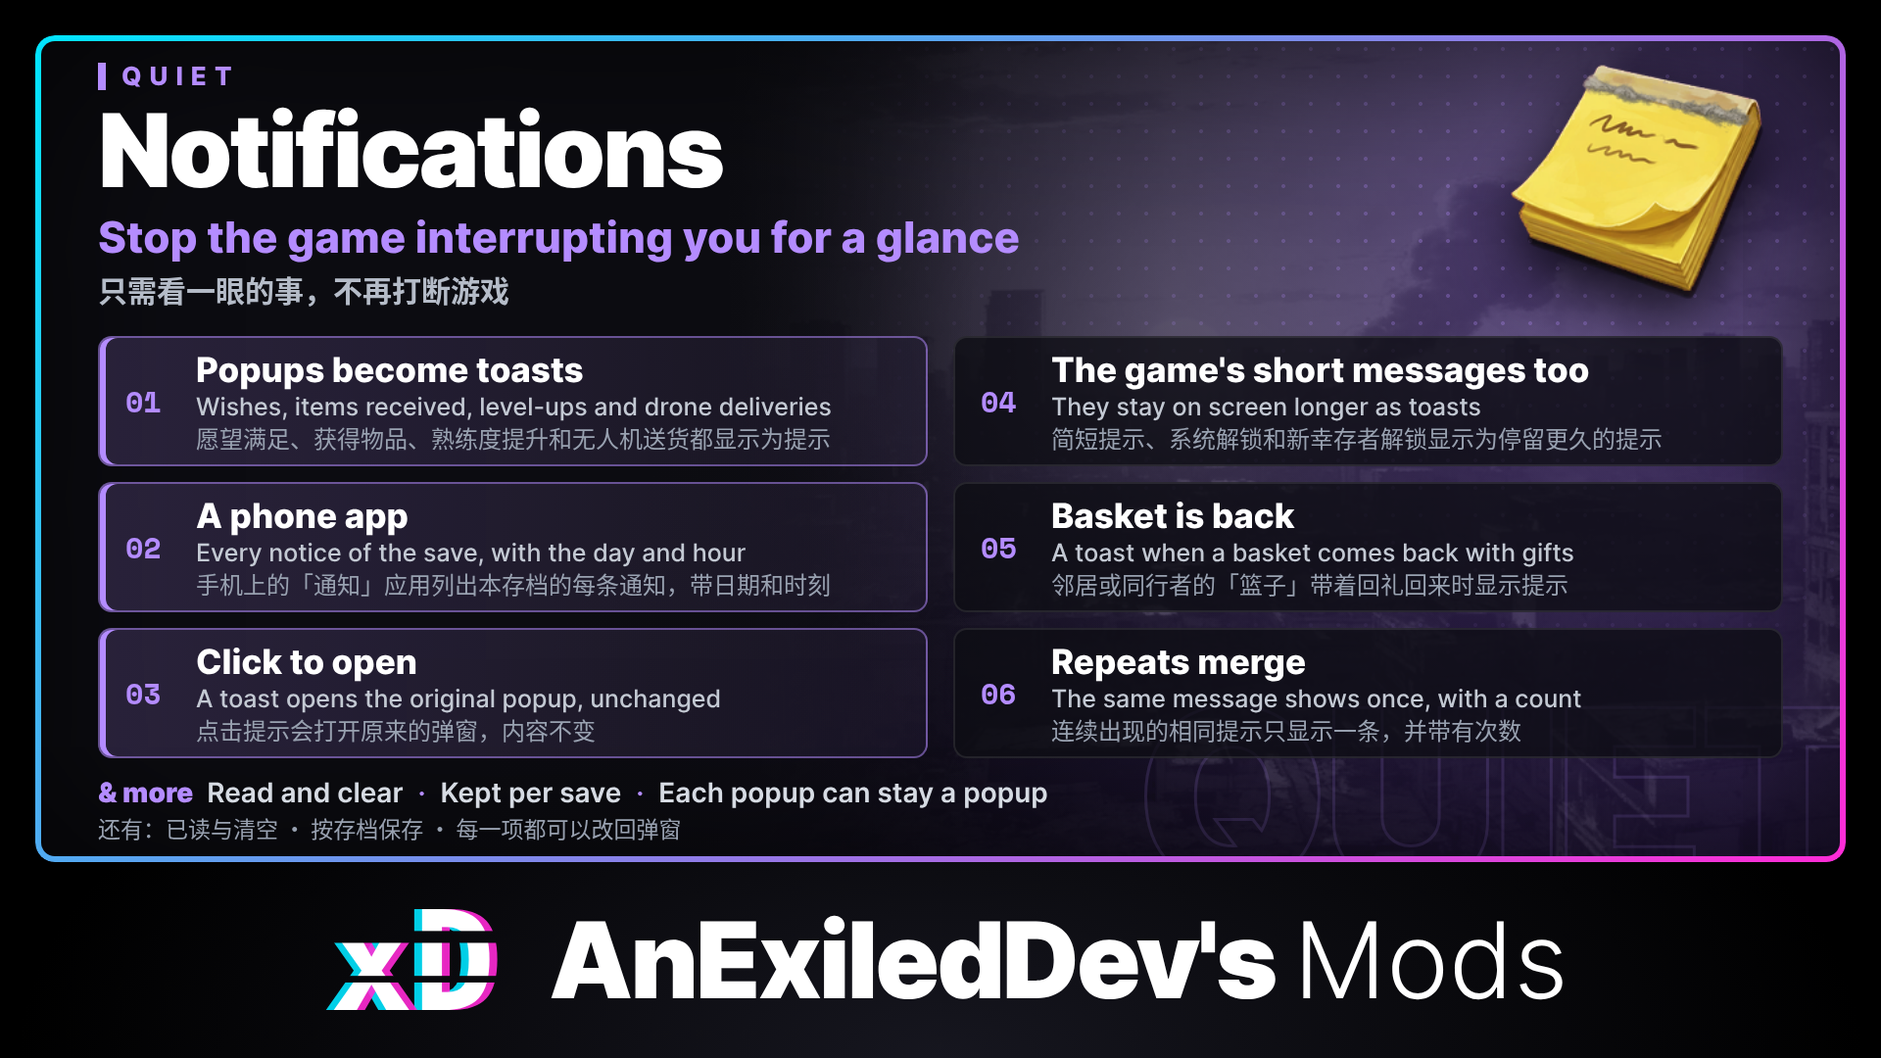
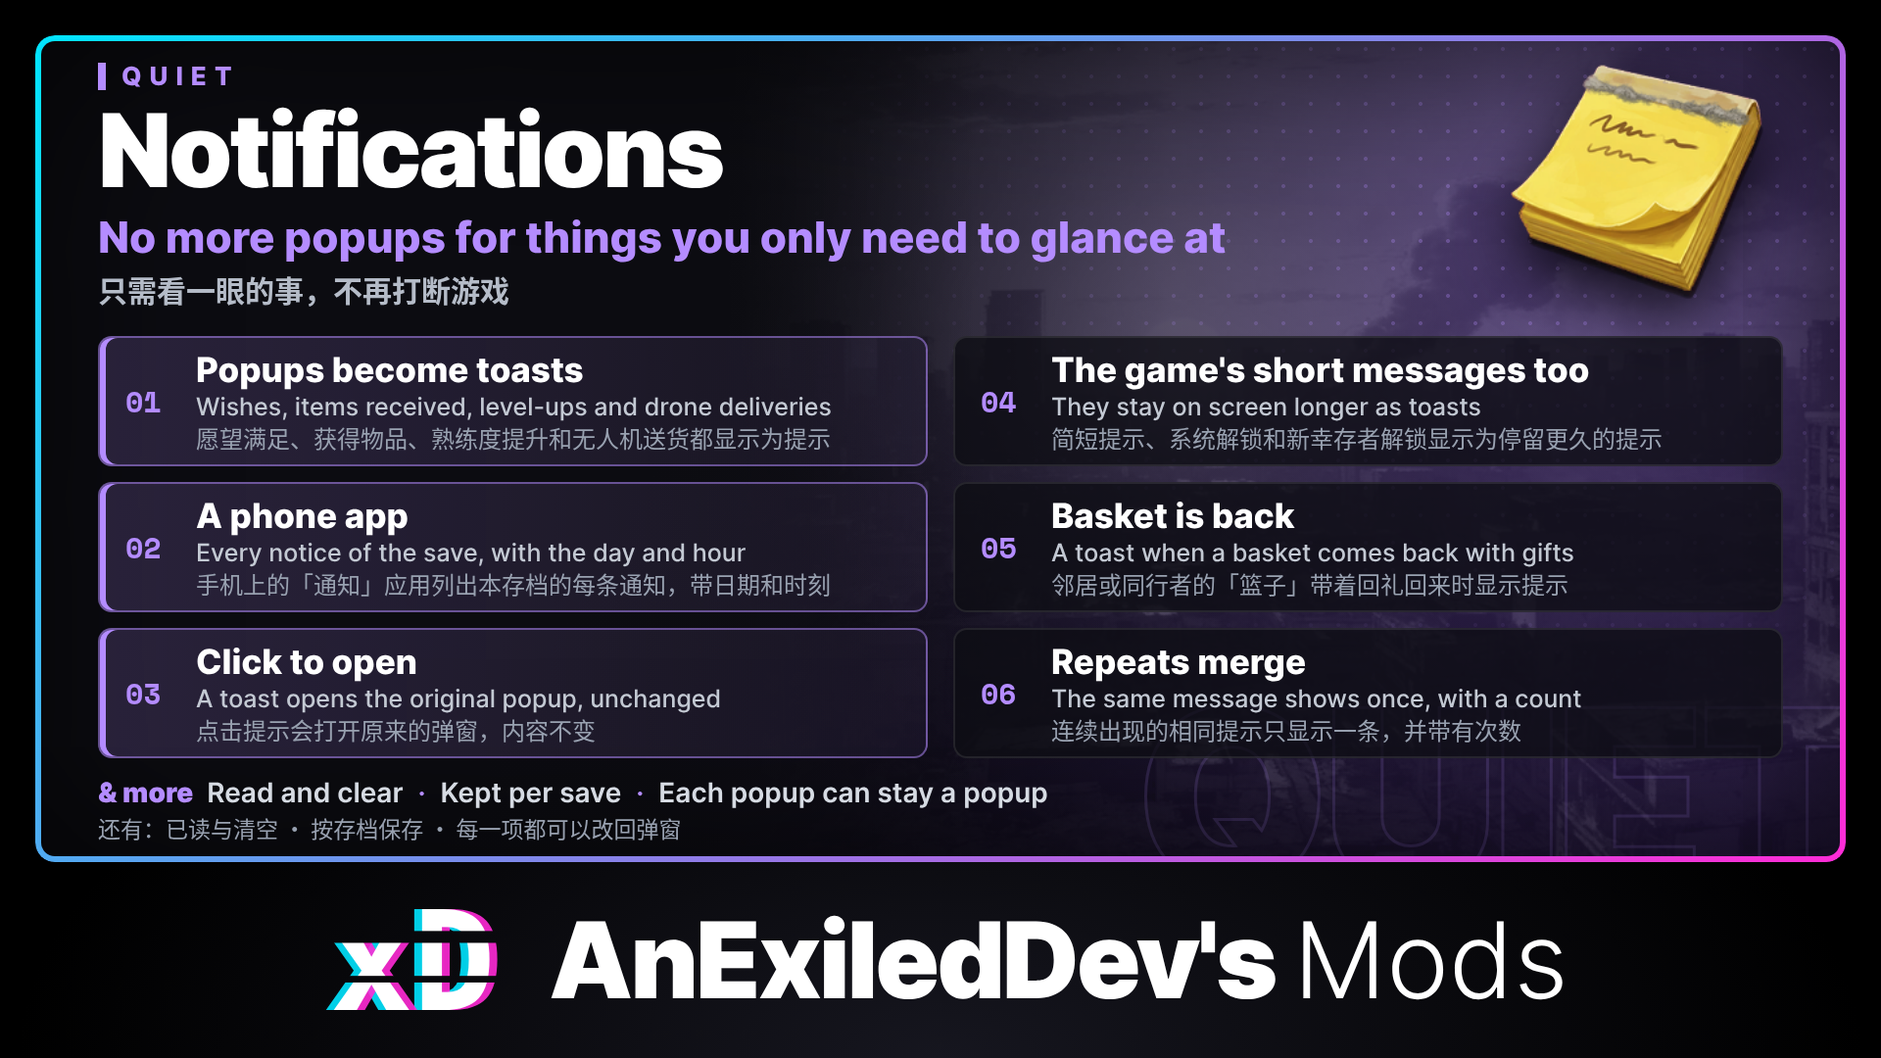
Notifications 0.4.8: clearer wording
Rewrote the settings descriptions, README, Nexus page (both languages), CONFIG.md and changelog in plainer words.
The Nexus page and README now list game version 1.1.20719, and the Nexus page lists the limit on reopening notices from other mods.

Changed region(s): [[0.0312, 0.2139, 0.6562, 0.2444]]

diff --git a/src/Notifications/Plugin.cs b/src/Notifications/Plugin.cs
@@ -16,7 +16,7 @@ namespace Notifications;
 public sealed class Plugin : BasePlugin
 {
     private const string Guid = "com.dev.survivallog.notifications";
-    private const string Version = "0.4.7";
+    private const string Version = "0.4.8";
 
     /// <summary>How long quitting waits for the history to reach the disk.</summary>
     private static readonly System.TimeSpan QuitWait = System.TimeSpan.FromSeconds(2);
@@ -70,17 +70,17 @@ public sealed class Plugin : BasePlugin
             "Show a toast instead of the popup when a wish comes true. Click the toast, or the entry in the phone's Notifications app, to open the popup.\n" +
             "愿望达成时显示提示，不再弹出窗口。点击提示或手机「通知」里的记录可打开原窗口。"),
         Popup("ItemsReceived",
-            "Show a toast instead of the received-items popup (bumper harvests, first-time dishes, rewards). Click it to open the popup. The small pickup pops that fade by themselves stay as they are.\n" +
+            "Show a toast instead of the received-items popup (bumper harvests, first-time dishes, rewards). Click it to open the popup. The small pickup messages that fade on their own don't change.\n" +
             "获得物品时显示提示，不再弹出窗口（丰收、初次烹成、奖励等）。点击提示可打开原窗口。拾取物品时自动消失的小提示保持不变。"),
         Popup("WaveReport",
-            "Show a toast instead of the zombie wave report. Click it to open the report. Off by default: the game's report shows.\n" +
-            "尸潮战报改为提示显示，不再弹出窗口。点击提示可打开战报。默认关闭，显示游戏自带的战报。", isOn: false),
+            "Show a toast instead of the zombie wave report. Click it to open the report. Off by default, so the wave report shows as a popup.\n" +
+            "尸潮战报改为提示显示，不再弹出窗口。点击提示可打开战报。默认关闭，战报仍以弹窗显示。", isOn: false),
         Popup("SkillLevelUp",
             "Show a toast instead of the skill level-up popup. Click it to open the popup.\n" +
             "熟练度提升时显示提示，不再弹出窗口。点击提示可打开原窗口。"),
         Popup("DroneDelivery",
-            "When a drone comes home, show a \"Drone delivery arrived\" toast instead of the unload popup. Click it to open the popup. Cargo that does not fit stays in the drone, as before, and then there is no popup to open.\n" +
-            "无人机返回时显示「无人机送货到了」提示，不再弹出卸货窗口。点击提示可打开原窗口。放不下的货物仍留在无人机里，此时没有窗口可打开。"),
+            "When a drone comes home, show a \"Drone delivery arrived\" toast instead of the unload popup. Click it to open the popup. If some cargo doesn't fit, it stays in the drone as usual, and the toast has no popup to open.\n" +
+            "无人机返回时显示「无人机送货到了」提示，不再弹出卸货窗口。点击提示可打开原窗口。放不下的货物照常留在无人机里，此时提示没有可打开的窗口。"),
         GameToast("PopText",
             "Show the game's short messages (such as not enough stamina) as toasts. Identical messages in a row merge into one toast with a count. All of them go into the phone's Notifications app.\n" +
             "把游戏的简短提示（例如精力不足）改为本模组的提示显示。连续出现的相同提示会合并为一条并显示次数。所有提示都会记入手机「通知」。"),
@@ -91,10 +91,10 @@ public sealed class Plugin : BasePlugin
             "Show new survivor unlocks as toasts, and keep them in the phone's Notifications app.\n" +
             "新幸存者解锁改为提示显示，并记入手机「通知」。"),
         Config.Bind("GameToasts", "KeepGameToastLook", false,
-            "Let the game draw its own short messages and unlocks as before, and only copy them into the phone's Notifications app. Off: they show as toasts, which stay on screen as long as Exiled's Toolkit's Seconds setting says (7 seconds by default).\n" +
-            "游戏的简短提示和解锁仍由游戏自己显示，只把它们记入手机「通知」。关闭时改为提示显示，停留时间由 Exiled's Toolkit 的 Seconds 设置决定（默认 7 秒）。"),
+            "Let the game show its short messages and unlocks as usual, and only copy them into the phone's Notifications app. When this is off, they show as toasts instead, and Exiled's Toolkit's Seconds setting decides how long they stay on screen (7 seconds by default).\n" +
+            "简短提示和解锁照常由游戏显示，只把它们记入手机「通知」。关闭时改为提示显示，停留时间由 Exiled's Toolkit 的 Seconds 设置决定（默认 7 秒）。"),
         Config.Bind("Basket", "BasketBack", true,
-            "Show a \"The basket is back\" toast when the neighbour's or your companion's basket comes back with her return gifts, and keep it in the phone's Notifications app.\n" +
+            "Show a \"The basket is back\" toast when your neighbor's or companion's basket comes back with her return gifts, and keep it in the phone's Notifications app.\n" +
             "邻居或同行者的「篮子」带着回礼回来时显示「篮子回来了」提示，并记入手机「通知」。"),
     };
 

diff --git a/README.md b/README.md
@@ -6,23 +6,23 @@ Survival Log stops play with a popup for many things that only need a glance: a 
 
 ## Features
 
-- **Popups become toasts**: wishes fulfilled, items received, skill level-ups and drone deliveries show a toast instead of stopping play. Each can be switched back to the popup on its own. The zombie wave report stays the game's popup unless you turn on `WaveReport`.
-- **Click to open**: clicking the toast opens the original popup, with the same contents it would have shown.
-- **The game's short messages too**: the game's short messages, system unlocks and new survivor unlocks show as toasts, which are bigger and stay on screen longer than the game's. They can also be left to the game while still being kept on the phone.
-- **Basket is back**: a toast when the neighbour's or your companion's basket comes back with her return gifts. The game only sends a text message for it.
-- **Repeats merge**: the same message sent several times in a row shows one toast with a count (x2, x3, ...) instead of a stack of copies. Only messages that are exactly the same merge.
-- **Phone app**: a Notifications app on the phone's home screen lists every notice of the current save, newest first and grouped by game day, with where it came from, the hour, and how many times it came. Filters show only new notices, popups, messages or other mods. The icon shows how many notices are new, and the home screen shows the newest three.
-- **Open in place**: clicking a notice in the list opens it in place, with any received items and their amounts, or a wish's gains. Open popup closes the phone and opens its popup again, when it had one.
-- **Read and clear**: a notice stays new until you open it. Mark all read clears them all, and Clear list empties the list for this save after asking first.
-- **Kept with your save**: the list is kept per save, up to the newest 500 notices, and comes back when you load that save again.
+- **Popups become toasts**: wishes coming true, items received, skill level-ups and drone deliveries show a toast instead of stopping play. You can switch each one back to a popup. The zombie wave report still shows as a popup unless you turn on `WaveReport`.
+- **Click to open**: click a toast to open the popup it replaced, with everything that popup would have shown.
+- **Short messages and unlocks**: the game's short messages, system unlocks and new survivor unlocks show as toasts, which are bigger and stay on screen longer. You can also let the game show them as usual and still keep a copy on the phone.
+- **Basket return**: you get a toast when your neighbor's or companion's basket comes back with her return gifts. Without the mod, the game only sends a text message.
+- **Repeated messages merge**: when the same message comes several times in a row, you get one toast with a count (x2, x3, ...) instead of a stack of copies. Only messages that match exactly are merged.
+- **Phone app**: a Notifications app on the phone's home screen lists every notice from the current save, newest first and grouped by game day. Each notice shows where it came from, the hour, and how many times it came in. Filters let you show only new notices, popups, messages, or notices from other mods. The app icon shows how many notices are new, and the home screen shows the newest three.
+- **Details in the list**: click a notice in the list to see its details, such as the items you got and how many, or what a wish gave you. If the notice came from a popup, Open popup closes the phone and shows that popup again.
+- **Read and clear**: a notice stays new until you open it. Mark all read marks every notice as read, and Clear list empties the list for this save after asking you first.
+- **Kept with your save**: each save has a separate list that keeps the newest 500 notices, and it comes back when you load that save again.
 
 Popups that ask you to choose something, such as events and the item pickup window with Pick All, are never changed.
 
-Notifications adds nothing to your save and does not edit game files. The list is kept in its own files next to the mod's settings. You can remove the mod at any time.
+Notifications adds nothing to your save and does not edit game files. The lists are kept in separate files next to the mod's settings. You can remove the mod at any time.
 
 ## Requirements
 
-- Survival Log 1.1.20151. Built and tested on this version; a game update can break it until the mod is updated.
+- Survival Log 1.1.20719. A game update can break the mod until it's updated.
 - The [BepInEx Pack for Survival Log](https://www.nexusmods.com/survivallog/mods/12), the BepInEx 6 (IL2CPP) build for the game.
 - **Exiled's Toolkit** 0.19.0 or newer, which draws the toasts and applies changed settings at once. Notifications does not load without it.
 - Optional: [Mod Manager](https://www.nexusmods.com/survivallog/mods/73). With it, you can change every setting in game on its Mods screen and see what each one does, without opening the config file.
@@ -45,22 +45,23 @@ Settings live in `BepInEx\config\com.dev.survivallog.notifications.cfg`, created
 
 The phone app and the mod's own toast text follow the game's language: English or Simplified Chinese.
 
-How long toasts stay on screen, which corner they use, and whether they are drawn at all are Exiled's Toolkit settings. With the Toolkit's toasts turned off, every popup shows as the game draws it and the phone list still keeps a copy of everything.
+How long toasts stay on screen, which corner they use, and whether they show at all are Exiled's Toolkit settings. With the Toolkit's toasts turned off, every popup shows as usual and the phone list still keeps a copy of everything.
 
 ## Known issues and limits
 
-- A notice in the list can open its popup again after a restart only if the popup can be rebuilt from what was saved. A notice from another mod's toast can be opened only in the session it arrived in.
-- When some of a drone's cargo does not fit, it stays in the drone as before, and the toast has no popup to open.
+- After a restart, a notice in the list can open its popup again only if the mod saved enough to rebuild that popup.
+- A notice from another mod can only be opened until you quit the game.
+- When some of a drone's cargo does not fit, that cargo stays in the drone as before, and the toast has no popup to open.
 - The list starts empty for saves played before the mod was installed.
 
 ## Troubleshooting
 
-Check `BepInEx\LogOutput.log` for `===== Notifications 0.4.7 started`. The same lines, and anything that went wrong, are in `BepInEx\notifications.log`, which survives restarts.
+Check `BepInEx\LogOutput.log` for `===== Notifications 0.4.8 started`. The same lines, and anything that went wrong, are in `BepInEx\notifications.log`, which survives restarts.
 
-If a saved list cannot be read, it is moved aside with a `.bad` ending in `BepInEx\config\notifications` and a new list starts, so the old one is never written over.
+If a saved list can't be read, the mod renames it with a `.bad` ending in `BepInEx\config\notifications` and starts a new list, so the old one is never written over.
 
 ## Contact
 
-To reach me directly, message `exiled.dev` on Discord; you can find me in the [official Survival Log Discord](https://discord.gg/MZGg4gQAUe). I'm also on X as [@AnExiledDev](https://x.com/AnExiledDev).
+To reach me directly, message `exiled.dev` on Discord. You can find me in the [official Survival Log Discord](https://discord.gg/MZGg4gQAUe). I'm also on X as [@AnExiledDev](https://x.com/AnExiledDev).
 
 A Survival Log wiki with detailed documentation for all of my mods is coming soon.

diff --git a/CHANGELOG.md b/CHANGELOG.md
@@ -1,5 +1,10 @@
 # Changelog
 
+## 0.4.8
+
+- Clearer wording in the settings.
+- Made for Survival Log 1.1.20719.
+
 ## 0.4.7
 
 - Now uses Exiled's Toolkit for its shared parts, so it needs Exiled's Toolkit 0.19.0 or newer.
@@ -12,12 +17,12 @@
 
 ## 0.4.5
 
-- Less stutter when a toast stands in for a popup and the popup closes.
+- Less stutter when a toast replaces a popup and that popup closes.
 - Made for Survival Log 1.1.20151.
 
 ## 0.4.4
 
-- The phone opens faster with a long list of notices: it shows the newest ones first and adds more as you scroll down.
+- The phone opens faster with a long list of notices. It shows the newest ones first and loads more as you scroll down.
 - Made for Survival Log 1.1.19611.
 
 ## 0.4.3
@@ -30,38 +35,38 @@
 
 ## 0.4.2
 
-- Less stutter while many notices come in: the phone list and the saved history are updated less often. Nothing is lost; the history is still saved when you leave or quit.
+- Less stutter when many notices come in, because the phone list and the saved history update less often. Nothing is lost, and the history is still saved when you leave or quit.
 - Made for Survival Log 1.1.19611.
 
 ## 0.4.1
 
-- The Notifications icon, its unread count and the newest notices are on the phone the moment it opens, instead of showing up a moment later.
+- The Notifications icon, its unread count and the newest notices show up as soon as you open the phone, instead of a moment later.
 - Made for Survival Log 1.1.19611.
 
 ## 0.4.0
 
-- A "The basket is back" toast when the neighbour's or your companion's basket comes back with her return gifts. It is kept in the phone's Notifications app too. Turn it off with `BasketBack`.
+- New: a "The basket is back" toast shows when your neighbor's or companion's basket comes back with her return gifts. It's kept in the phone's Notifications app too. Turn it off with `BasketBack`.
 
 ## 0.3.0
 
 - The phone list is grouped by game day, with a picture for each notice, and filters for new notices, popups, messages and other mods.
-- Clicking a notice opens it in place: received items with their pictures and amounts, a wish's gains, and an Open popup button when it had one.
-- Each notice stays new until you open it. Mark all read clears them all at once, and Clear list (with a check first) empties the list for this save.
+- Click a notice to see its details, such as received items with their pictures and amounts, or what a wish gave you. Notices that came from a popup have an Open popup button.
+- Each notice stays new until you open it. Mark all read marks every notice as read, and Clear list empties the list for this save after asking first.
 - The phone's home screen shows up to three new notices, with See all to open the list.
 - The app icon is orange and shows how many notices are new.
-- Opening a received-items popup again from the list shows its items. Before, it came up empty.
+- Fixed: opening a received-items popup again from the list showed it empty.
 - Toasts use the new Exiled's Toolkit look, with item pictures and a bar for the time left.
 - Needs Exiled's Toolkit 0.7.0 or newer.
 - Made for Survival Log 1.1.19131.
 
 ## 0.2.2
 
-- With `WaveReport` on, the game no longer stays paused when the wave report becomes a toast, and no Escape is needed to carry on.
+- With `WaveReport` on, the game no longer stays paused when the wave report shows as a toast, so you don't need to press Escape to keep playing.
 - After a game update, Mod Manager can tell you if this mod may need an update.
 
 ## 0.2.1
 
-- The zombie wave report shows as the game's popup by default. As a toast it could leave the game paused as if the report were open, needing Escape twice. `WaveReport` turns the toast back on.
+- The zombie wave report shows as a popup again by default. As a toast it could leave the game paused, and you had to press Escape twice. Turn on `WaveReport` to get the toast back.
 
 ## 0.2.0
 
@@ -73,6 +78,6 @@
 ## 0.1.3
 
 - First release.
-- The game's popups that stop play show as toasts instead, small notices in the corner that close on their own.
+- Popups that stop play show as toasts instead, small notices in the corner that close on their own.
 - Every notice is kept in a Notifications app on your phone.
 - Needs Exiled's Toolkit.

diff --git a/CONFIG.md b/CONFIG.md
@@ -2,33 +2,33 @@
 
 Settings live in `BepInEx\config\com.dev.survivallog.notifications.cfg`, created the first time the game starts with the mod. Change them in game on the Mod Manager's Mods screen, where they take effect at once, or edit the file while the game is closed. Delete the file to get the defaults back.
 
-How long toasts stay on screen and where they appear are set in Exiled's Toolkit (`Seconds`, 7 by default). When the Toolkit's `Enabled` is `false`, no toasts are drawn: every popup and message shows as the game draws it, and the phone's Notifications app still keeps a copy.
+How long toasts stay on screen and where they appear are set in Exiled's Toolkit (`Seconds`, 7 by default). When the Toolkit's `Enabled` is `false`, no toasts show: every popup and message shows as usual, and the phone's Notifications app still keeps a copy.
 
 ## Popups
 
 | Setting | Default | What it does |
 | --- | --- | --- |
 | `WishFulfilled` | `true` | Show a toast instead of the popup when a wish comes true. Click the toast, or its entry in the phone's Notifications app, to open the popup. |
-| `ItemsReceived` | `true` | Show a toast instead of the received-items popup (bumper harvests, first-time dishes, rewards). Click it to open the popup. The small pickup pops that fade by themselves stay as they are. The item pickup window with Pick All is never changed. |
-| `WaveReport` | `false` | Show a toast instead of the zombie wave report. Click it to open the report. Off by default: the game's report shows. |
+| `ItemsReceived` | `true` | Show a toast instead of the received-items popup (bumper harvests, first-time dishes, rewards). Click it to open the popup. The small pickup messages that fade on their own don't change. The item pickup window with Pick All is never changed. |
+| `WaveReport` | `false` | Show a toast instead of the zombie wave report. Click it to open the report. Off by default, so the wave report shows as a popup. |
 | `SkillLevelUp` | `true` | Show a toast instead of the skill level-up popup. Click it to open the popup. |
 | `DroneDelivery` | `true` | When a drone comes home, show a "Drone delivery arrived" toast instead of the unload popup. Click it to open the popup. |
 
-Set one to `false` to get that popup back as the game shows it. Popups that are switched off here are not kept in the phone list.
+Set one to `false` to get that popup back. Popups you switch off here are not kept in the phone list.
 
 ## Game toasts
 
 | Setting | Default | What it does |
 | --- | --- | --- |
-| `PopText` | `true` | Show the game's short messages (such as not enough stamina) as toasts. Identical messages in a row merge into one toast with a count. |
+| `PopText` | `true` | Show the game's short messages (such as not enough stamina) as toasts. When the same message comes several times in a row, you get one toast with a count. |
 | `SystemUnlock` | `true` | Show system unlocks as toasts. |
 | `CharacterUnlock` | `true` | Show new survivor unlocks as toasts. |
-| `KeepGameToastLook` | `false` | When `true`, the game draws its short messages and unlocks itself, as before, and they are only copied into the phone list. |
+| `KeepGameToastLook` | `false` | When `true`, the game shows its short messages and unlocks as usual, and the mod only copies them into the phone list. |
 
 ## Basket
 
 | Setting | Default | What it does |
 | --- | --- | --- |
-| `BasketBack` | `true` | Shows a "The basket is back" toast when the neighbour's or your companion's basket comes back with her return gifts, and keeps it in the phone list. |
+| `BasketBack` | `true` | Show a "The basket is back" toast when your neighbor's or companion's basket comes back with her return gifts, and keep it in the phone list. |
 
-Every message these settings turn on goes into the phone's Notifications app, whether it shows as a toast or as the game draws it. Set one of the first three to `false` to leave that kind of message to the game alone and out of the list.
+Every message these settings turn on goes into the phone's Notifications app, whether it shows as a toast or the usual way. If you set `PopText`, `SystemUnlock` or `CharacterUnlock` to `false`, the game shows that kind of message as usual and it stays out of the list.
